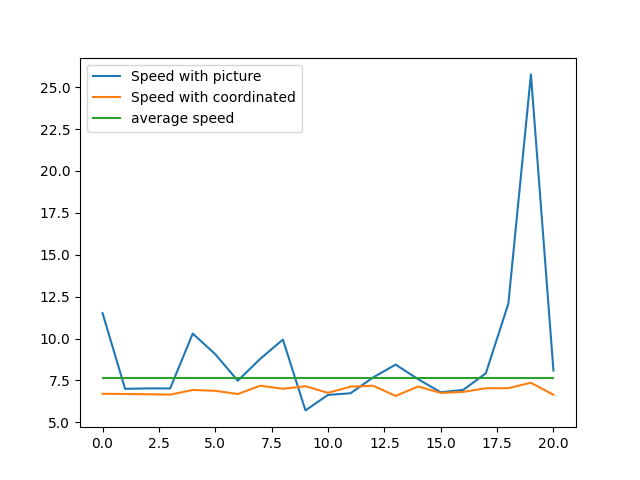
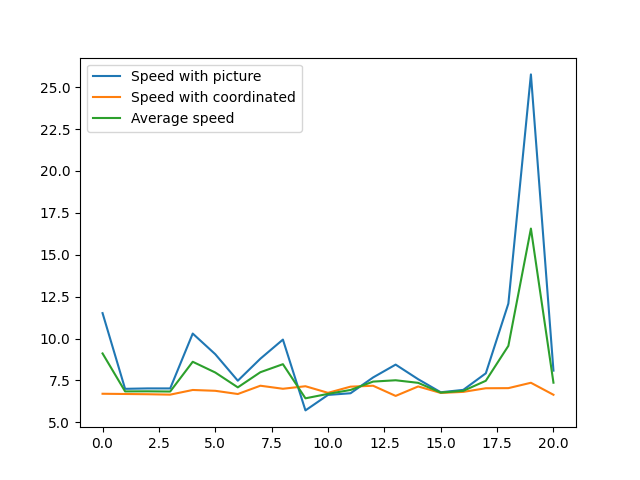
update

Changed region(s): [[0.1562, 0.625, 0.875, 0.8438], [0.7812, 0.5938, 0.8125, 0.75], [0.8125, 0.4688, 0.8438, 0.5938]]

diff --git a/main.py b/main.py
@@ -94,7 +94,6 @@ class speed:
                         img = exifImage(imageFile)
 
                         timeStr = img.get("datetime_original")
-                        # print(img.get("subsec_time_original"))
                         time = datetime.strptime(timeStr, '%Y:%m:%d %H:%M:%S')
 
                         lat, lon = img.get("gps_latitude"), img.get("gps_longitude")
@@ -225,12 +224,12 @@ class statistic:
 
         worldMap.save(output)
 
-    def graphicSpeedPicture(self, data1, data2):
+    def graphicSpeedPicture(self, data1, data2, data3):
         plt.plot(data1)
         plt.plot(data2)
-        plt.plot([7.66] * len(data1))
+        plt.plot(data3)
 
-        plt.legend(['Speed with picture', 'Speed with coordinated', 'average speed'], loc='upper left')
+        plt.legend(['Speed with picture', 'Speed with coordinated', 'Average speed'], loc='upper left')
         plt.savefig(self.output / 'graphic_SpeedPicture.png')
 
 
@@ -242,7 +241,7 @@ if __name__ == "__main__":
         speedDataStorage = dataStorage(paths / 'result.txt')
         statistic = statistic(paths / "Statistic")
         
-        speedPicture, speedCoordinated = [], []
+        speedPicture, speedCoordinated, speedAverage = [], [], []
         coordinated = []
 
         for i in range(21): 
@@ -253,11 +252,12 @@ if __name__ == "__main__":
                 speedPicture.append(speed.speedImage(paths / 'Picture' / f'picture{pictureNumber - 1:03d}.jpg', paths / 'Picture' / f'picture{pictureNumber:03d}.jpg'))
                 speedCoordinated.append(speed.speedCoordinated(paths / 'Picture' / f'picture{pictureNumber - 1:03d}.jpg', paths / 'Picture' / f'picture{pictureNumber:03d}.jpg'))
 
-            speedDataStorage.speedData("{:.4f}".format(np.mean(speedPicture)))
+            speedAverage.append((speedPicture[i] + speedCoordinated[i]) / 2)
+            speedDataStorage.speedData("{:.4f}".format(np.mean(speedAverage)))
             
-        speedDataStorage.speedData("{:.4f}".format(np.mean(speedPicture)))
+        speedDataStorage.speedData("{:.4f}".format(np.mean(speedAverage)))
         statistic.drawPointMap(coordinated)
-        statistic.graphicSpeedPicture(speedPicture, speedCoordinated)
+        statistic.graphicSpeedPicture(speedPicture, speedCoordinated, speedAverage)
 
     except Exception as error:
         logger.exception(f"an error occurs when the main function: {error}")
